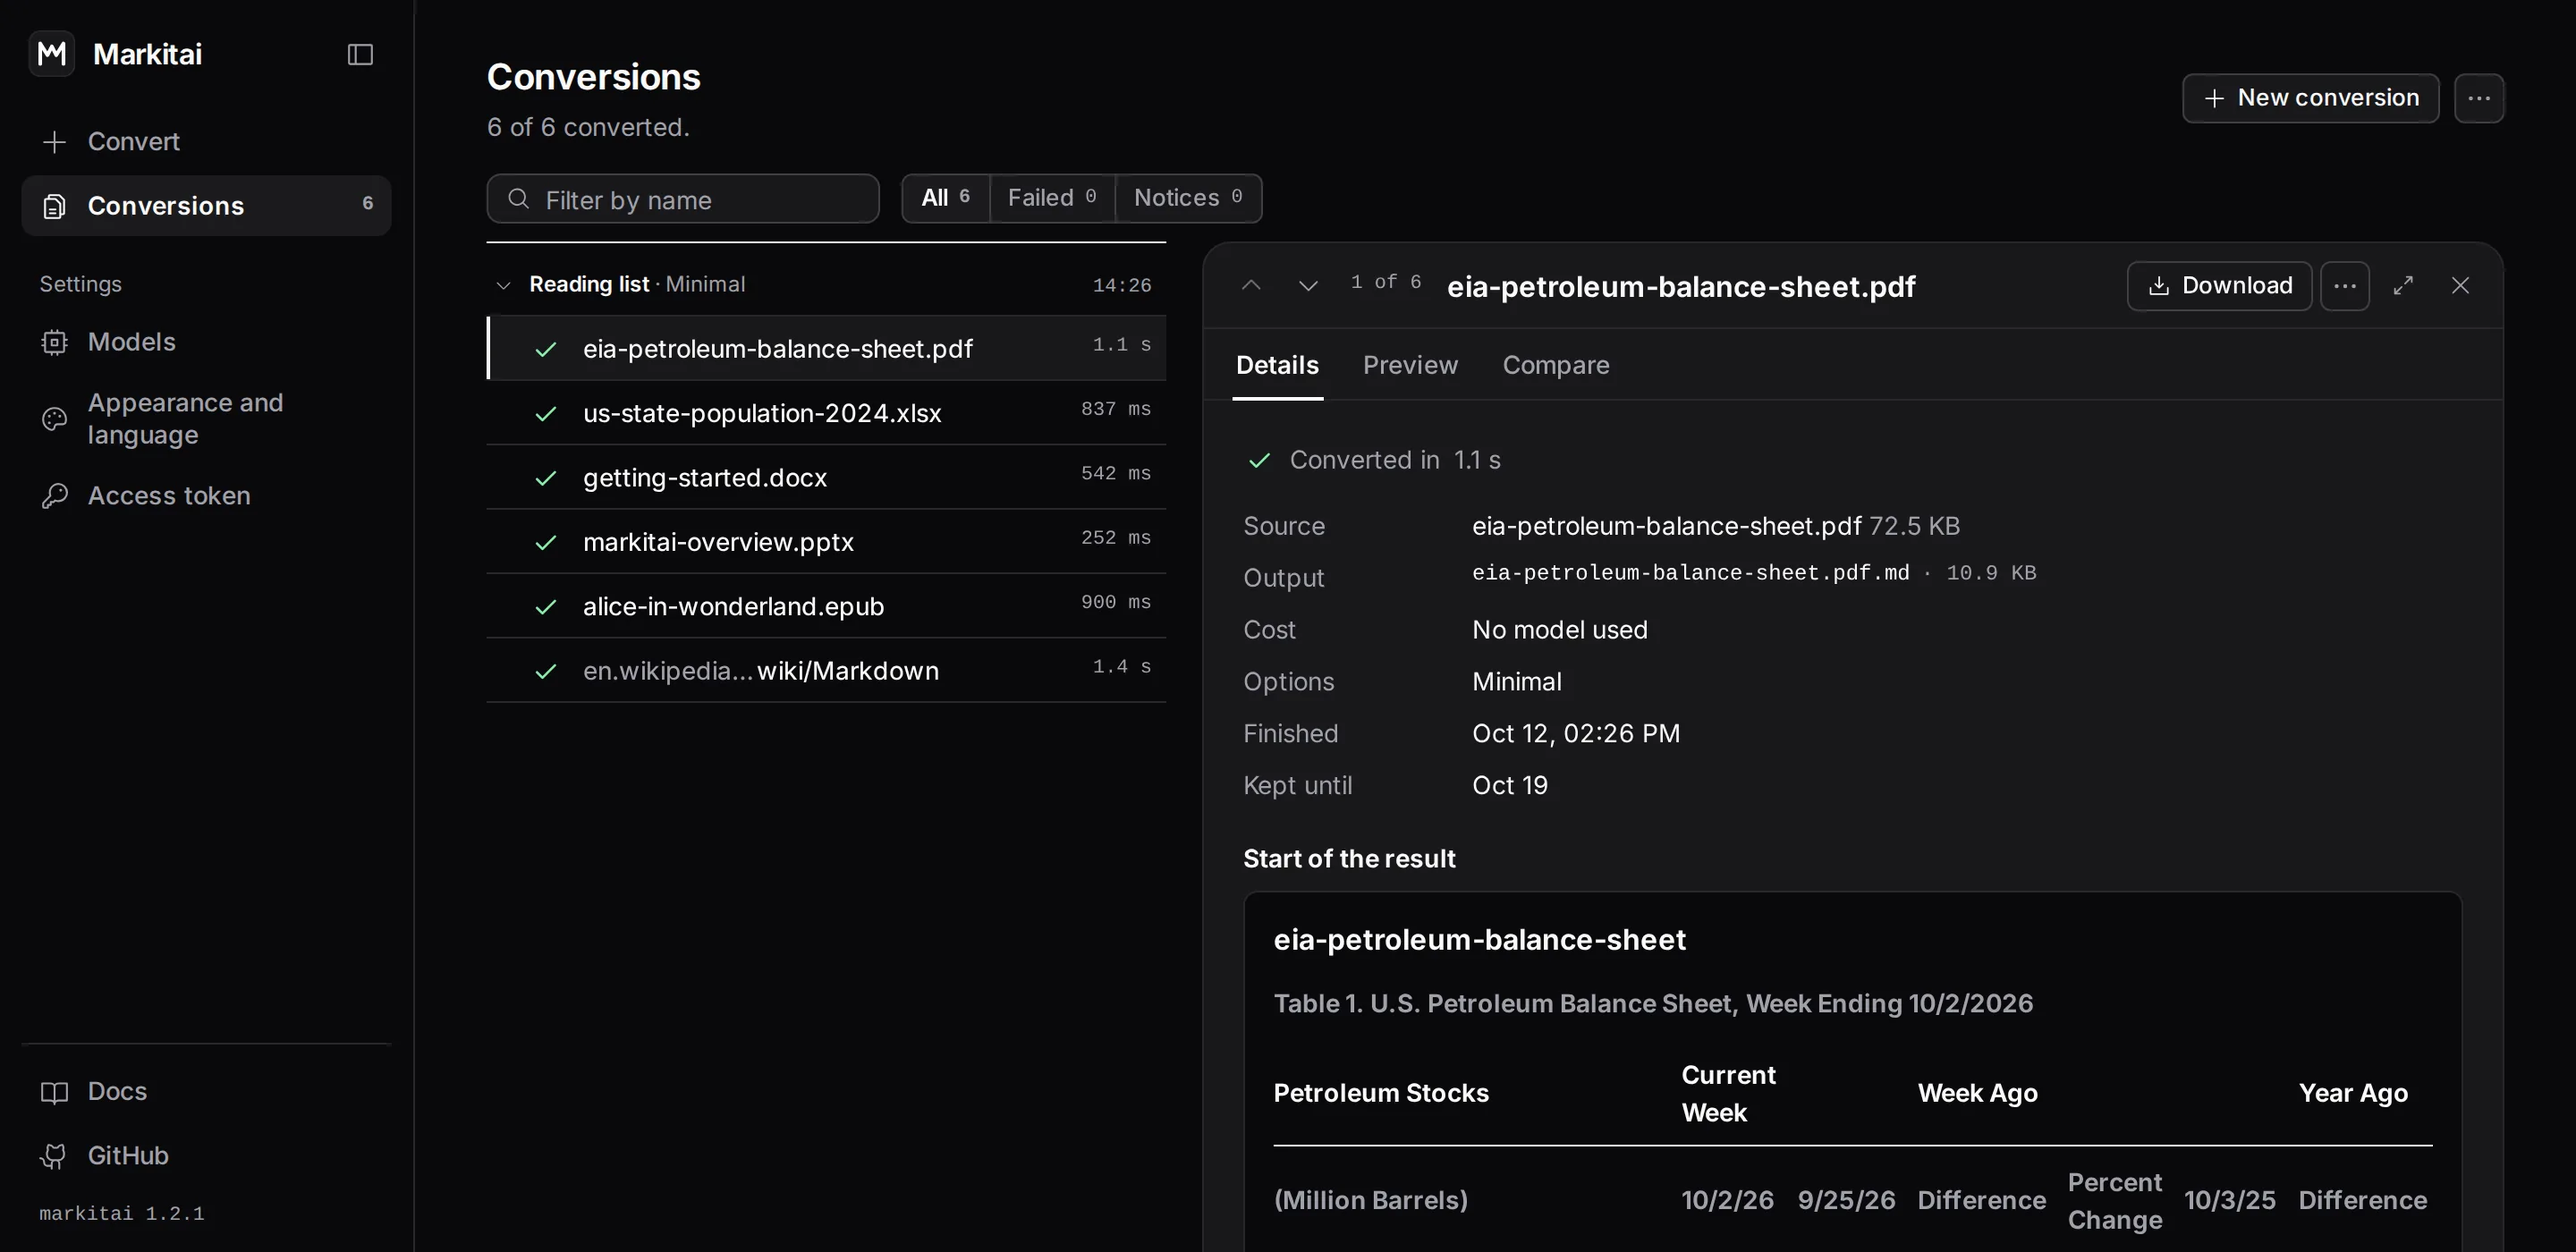
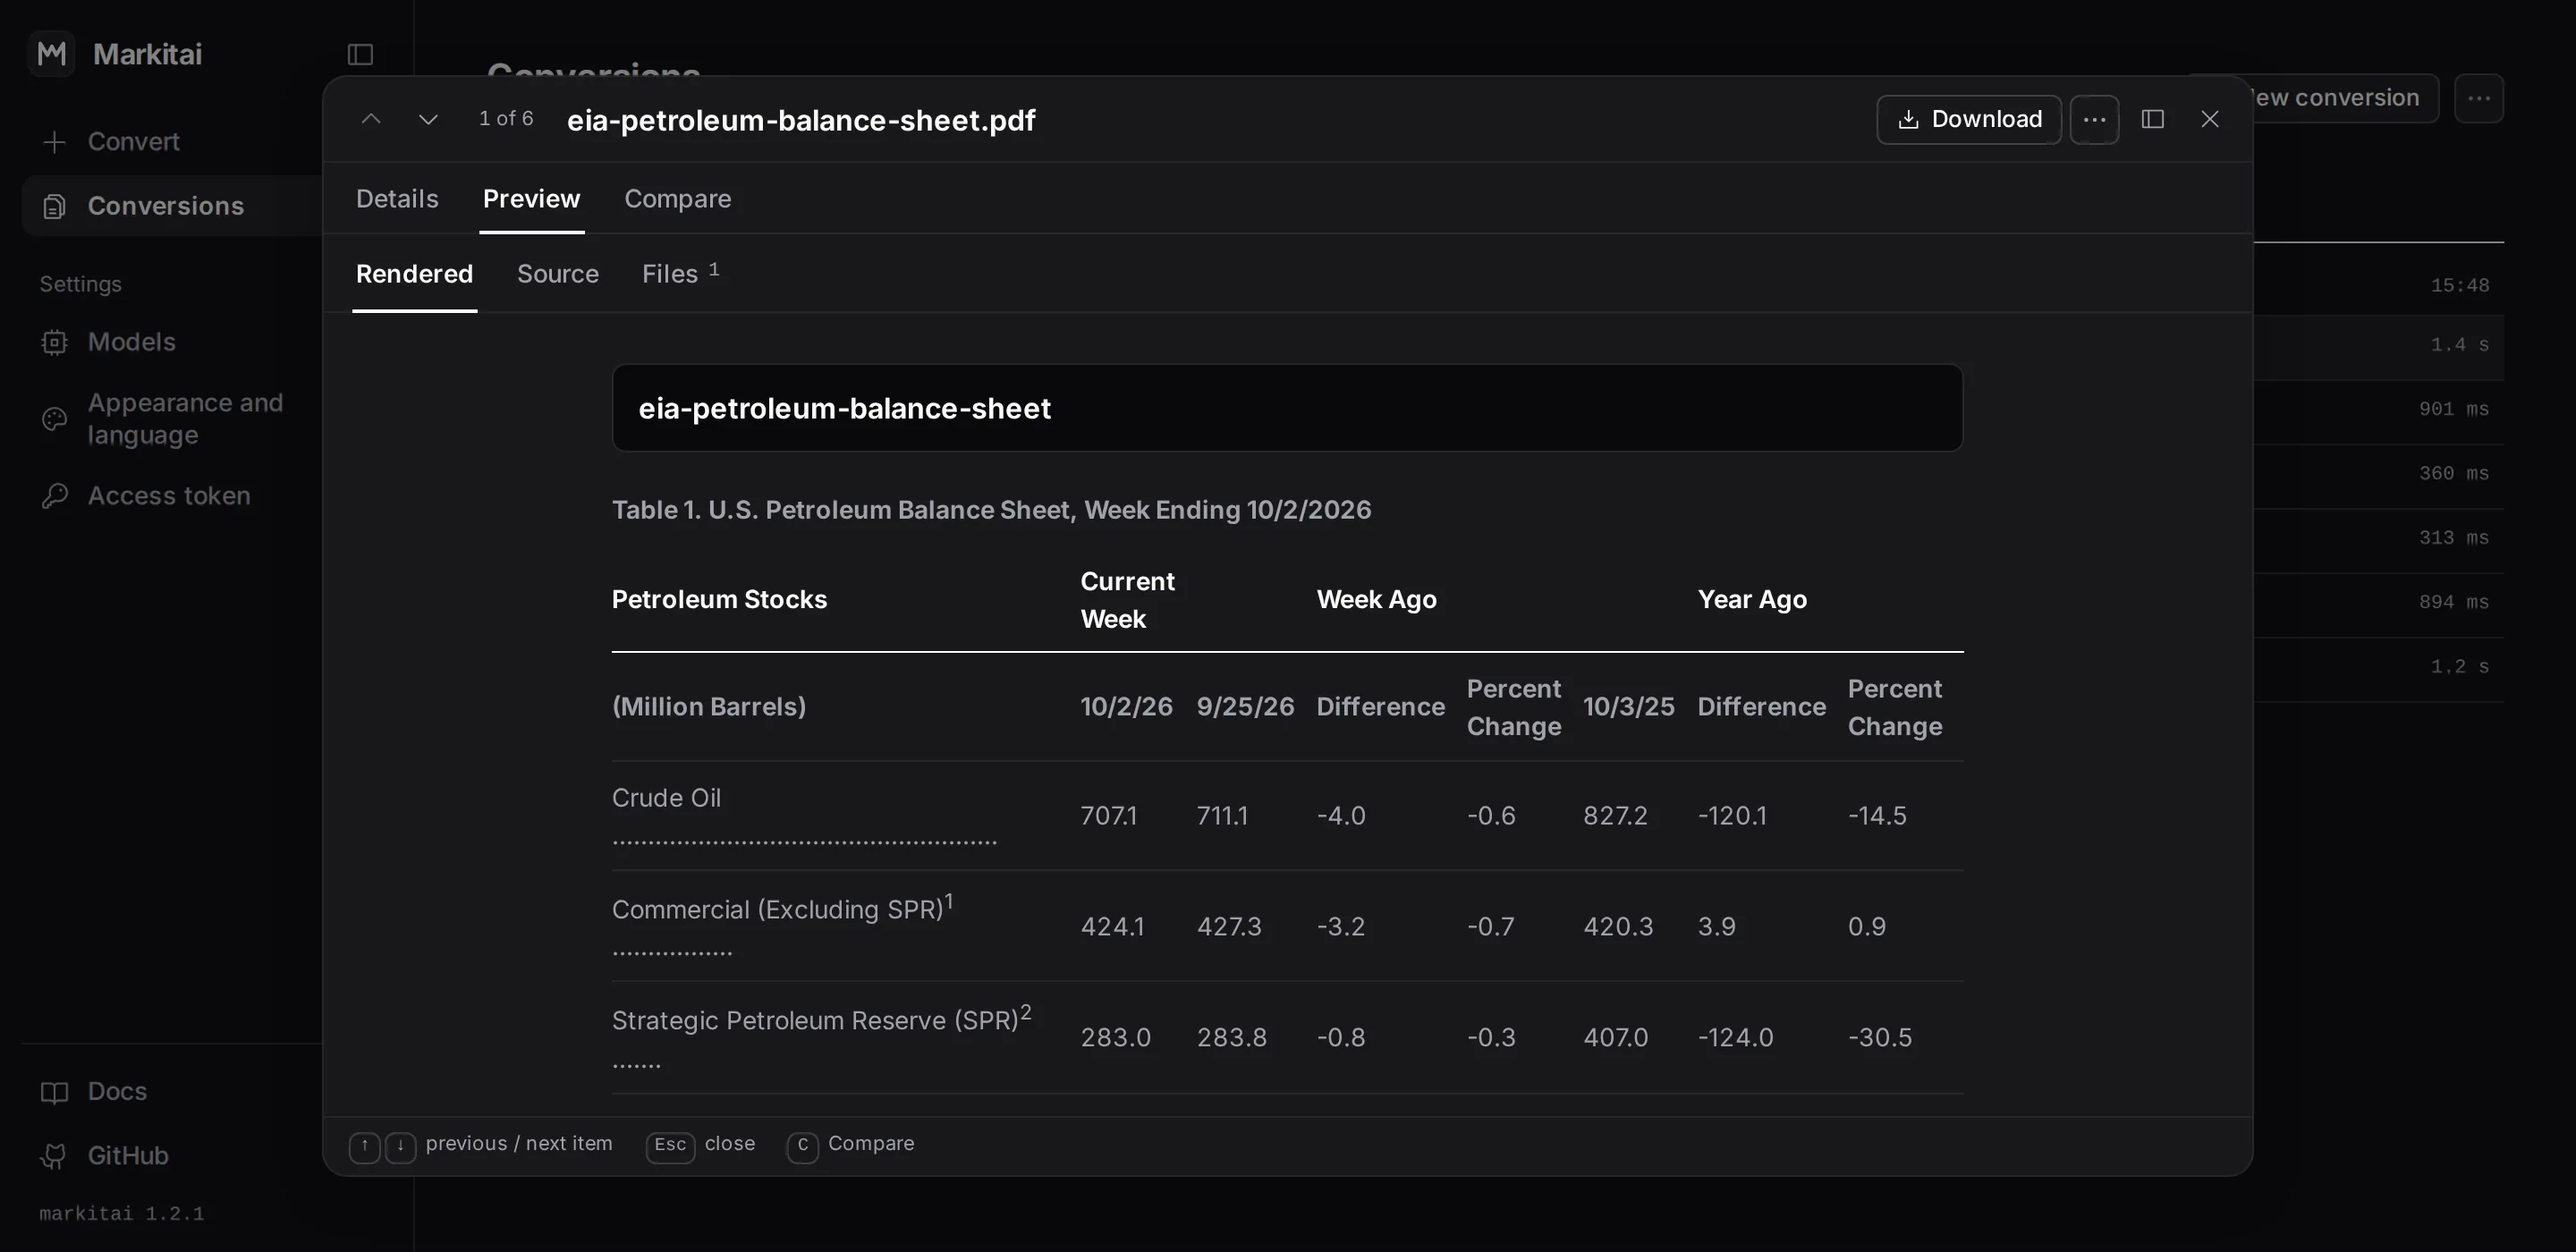
docs(website): workbench screenshots show the centred window on Preview
The owner chose the default centred conversion window open on Preview
(composition C of round 9). The home page and serve guide screenshots
(light and dark, English and Chinese, 1440x700 at 2x) are retaken on
workbench 5139264, so the window header's one centre line (arrows,
"1 of 6" in Inter, name, Download, "⋯", dock, close) and Preview's
reading column centred in the window show: Conversions dimmed behind,
the EIA PDF's rendered Markdown table in front. Alt texts describe the
window on Preview instead of the docked window on Details.

Inputs and server unchanged from the previous retake (SHA256SUMS
checked), all safe to publish:

- eia-petroleum-balance-sheet.pdf, the shown item: U.S. Energy
  Information Administration, Weekly Petroleum Status Report, Table 1,
  released October 7, 2026,
  https://www.eia.gov/petroleum/supply/weekly/pdf/table1.pdf. Public
  domain (eia.gov/about/copyrights_reuse.php).
- us-state-population-2024.xlsx: U.S. Census Bureau, NST-EST2024-POP,
  Vintage 2024,
  https://www2.census.gov/programs-surveys/popest/tables/2020-2024/state/totals/NST-EST2024-POP.xlsx.
  A U.S. government work (17 U.S.C. 105); author fields blanked.
- alice-in-wonderland.epub: Lewis Carroll, Alice's Adventures in
  Wonderland, Project Gutenberg eBook #11,
  https://www.gutenberg.org/ebooks/11 (public domain in the USA).
- getting-started.docx and markitai-overview.pptx: markitai's own docs
  and README, built with pandoc 3.7 (MIT, this repository).
[…]

diff --git a/website/zh/index.md b/website/zh/index.md
@@ -21,11 +21,11 @@ hero:
   <p><code>markitai serve</code> 把同一套转换内核放进本地网页界面。拖入文件、粘贴 URL、看进度，对照原件逐条检查结果，再全部下载。</p>
   <picture class="home-shot-light">
     <source srcset="/workbench.zh.webp" type="image/webp" />
-    <img src="/workbench.zh.png" alt="markitai 网页工作台：左侧栏有「转换」「转换任务」和「系统设置」，中间是按提交分组的已转换文件列表，所选文件的窗口停靠在列表右侧，打开在「详情」标签，显示状态、大小、费用、选项和结果开头。" width="1440" height="700" loading="lazy" />
+    <img src="/workbench.zh.png" alt="markitai 网页工作台：一个已转换的 PDF 在窗口中打开，窗口居中于变暗的转换任务列表上方，位于「预览」标签，显示一张美国石油平衡表转成 Markdown 后的渲染效果。" width="1440" height="700" loading="lazy" />
   </picture>
   <picture class="home-shot-dark">
     <source srcset="/workbench.zh.dark.webp" type="image/webp" />
-    <img src="/workbench.zh.dark.png" alt="markitai 网页工作台：左侧栏有「转换」「转换任务」和「系统设置」，中间是按提交分组的已转换文件列表，所选文件的窗口停靠在列表右侧，打开在「详情」标签，显示状态、大小、费用、选项和结果开头。" width="1440" height="700" loading="lazy" />
+    <img src="/workbench.zh.dark.png" alt="markitai 网页工作台：一个已转换的 PDF 在窗口中打开，窗口居中于变暗的转换任务列表上方，位于「预览」标签，显示一张美国石油平衡表转成 Markdown 后的渲染效果。" width="1440" height="700" loading="lazy" />
   </picture>
   <p class="home-shot-link"><a href="/zh/guide/serve">了解网页工作台 <span aria-hidden="true">→</span></a></p>
 </section>

diff --git a/website/index.md b/website/index.md
@@ -21,11 +21,11 @@ hero:
   <p><code>markitai serve</code> puts the same conversion core behind a local web UI. Drop files in, paste URLs, watch progress, check each result next to its original, download everything.</p>
   <picture class="home-shot-light">
     <source srcset="/workbench.webp" type="image/webp" />
-    <img src="/workbench.png" alt="The markitai web workbench: a sidebar with Convert, Conversions and Settings, the list of converted files grouped by submission, and the selected file's window docked beside it, open on its Details tab with status, sizes, cost, options and the start of the result." width="1440" height="700" loading="lazy" />
+    <img src="/workbench.png" alt="The markitai web workbench: a converted PDF open in a window centred over the dimmed list of conversions, on its Preview tab, showing the rendered Markdown of a U.S. petroleum balance sheet table." width="1440" height="700" loading="lazy" />
   </picture>
   <picture class="home-shot-dark">
     <source srcset="/workbench.dark.webp" type="image/webp" />
-    <img src="/workbench.dark.png" alt="The markitai web workbench: a sidebar with Convert, Conversions and Settings, the list of converted files grouped by submission, and the selected file's window docked beside it, open on its Details tab with status, sizes, cost, options and the start of the result." width="1440" height="700" loading="lazy" />
+    <img src="/workbench.dark.png" alt="The markitai web workbench: a converted PDF open in a window centred over the dimmed list of conversions, on its Preview tab, showing the rendered Markdown of a U.S. petroleum balance sheet table." width="1440" height="700" loading="lazy" />
   </picture>
   <p class="home-shot-link"><a href="/guide/serve">Read about the web workspace <span aria-hidden="true">→</span></a></p>
 </section>

diff --git a/website/zh/guide/serve.md b/website/zh/guide/serve.md
@@ -4,8 +4,8 @@
 
 一切都在本机运行。任务和历史保存在磁盘上，除了你配置的抓取策略和 LLM 提供商，不会向外发送任何内容。
 
-![markitai 网页工作台：左侧栏有「转换」「转换任务」和「系统设置」，中间是按提交分组的已转换文件列表，所选文件的窗口停靠在列表右侧，打开在「详情」标签，显示状态、大小、费用、选项和结果开头。](/workbench.zh.png){.light-only}
-![markitai 网页工作台：左侧栏有「转换」「转换任务」和「系统设置」，中间是按提交分组的已转换文件列表，所选文件的窗口停靠在列表右侧，打开在「详情」标签，显示状态、大小、费用、选项和结果开头。](/workbench.zh.dark.png){.dark-only}
+![markitai 网页工作台：一个已转换的 PDF 在窗口中打开，窗口居中于变暗的转换任务列表上方，位于「预览」标签，显示一张美国石油平衡表转成 Markdown 后的渲染效果。](/workbench.zh.png){.light-only}
+![markitai 网页工作台：一个已转换的 PDF 在窗口中打开，窗口居中于变暗的转换任务列表上方，位于「预览」标签，显示一张美国石油平衡表转成 Markdown 后的渲染效果。](/workbench.zh.dark.png){.dark-only}
 
 ## 启动服务
 

diff --git a/website/guide/serve.md b/website/guide/serve.md
@@ -4,8 +4,8 @@
 
 Everything runs on your machine. Jobs and history live on disk, and nothing leaves the host except what you send to the fetch strategies and LLM providers you configure.
 
-![The markitai web workbench: a sidebar with Convert, Conversions and Settings, the list of converted files grouped by submission, and the selected file's window docked beside it, open on its Details tab with status, sizes, cost, options and the start of the result.](/workbench.png){.light-only}
-![The markitai web workbench: a sidebar with Convert, Conversions and Settings, the list of converted files grouped by submission, and the selected file's window docked beside it, open on its Details tab with status, sizes, cost, options and the start of the result.](/workbench.dark.png){.dark-only}
+![The markitai web workbench: a converted PDF open in a window centred over the dimmed list of conversions, on its Preview tab, showing the rendered Markdown of a U.S. petroleum balance sheet table.](/workbench.png){.light-only}
+![The markitai web workbench: a converted PDF open in a window centred over the dimmed list of conversions, on its Preview tab, showing the rendered Markdown of a U.S. petroleum balance sheet table.](/workbench.dark.png){.dark-only}
 
 ## Starting the Server
 
